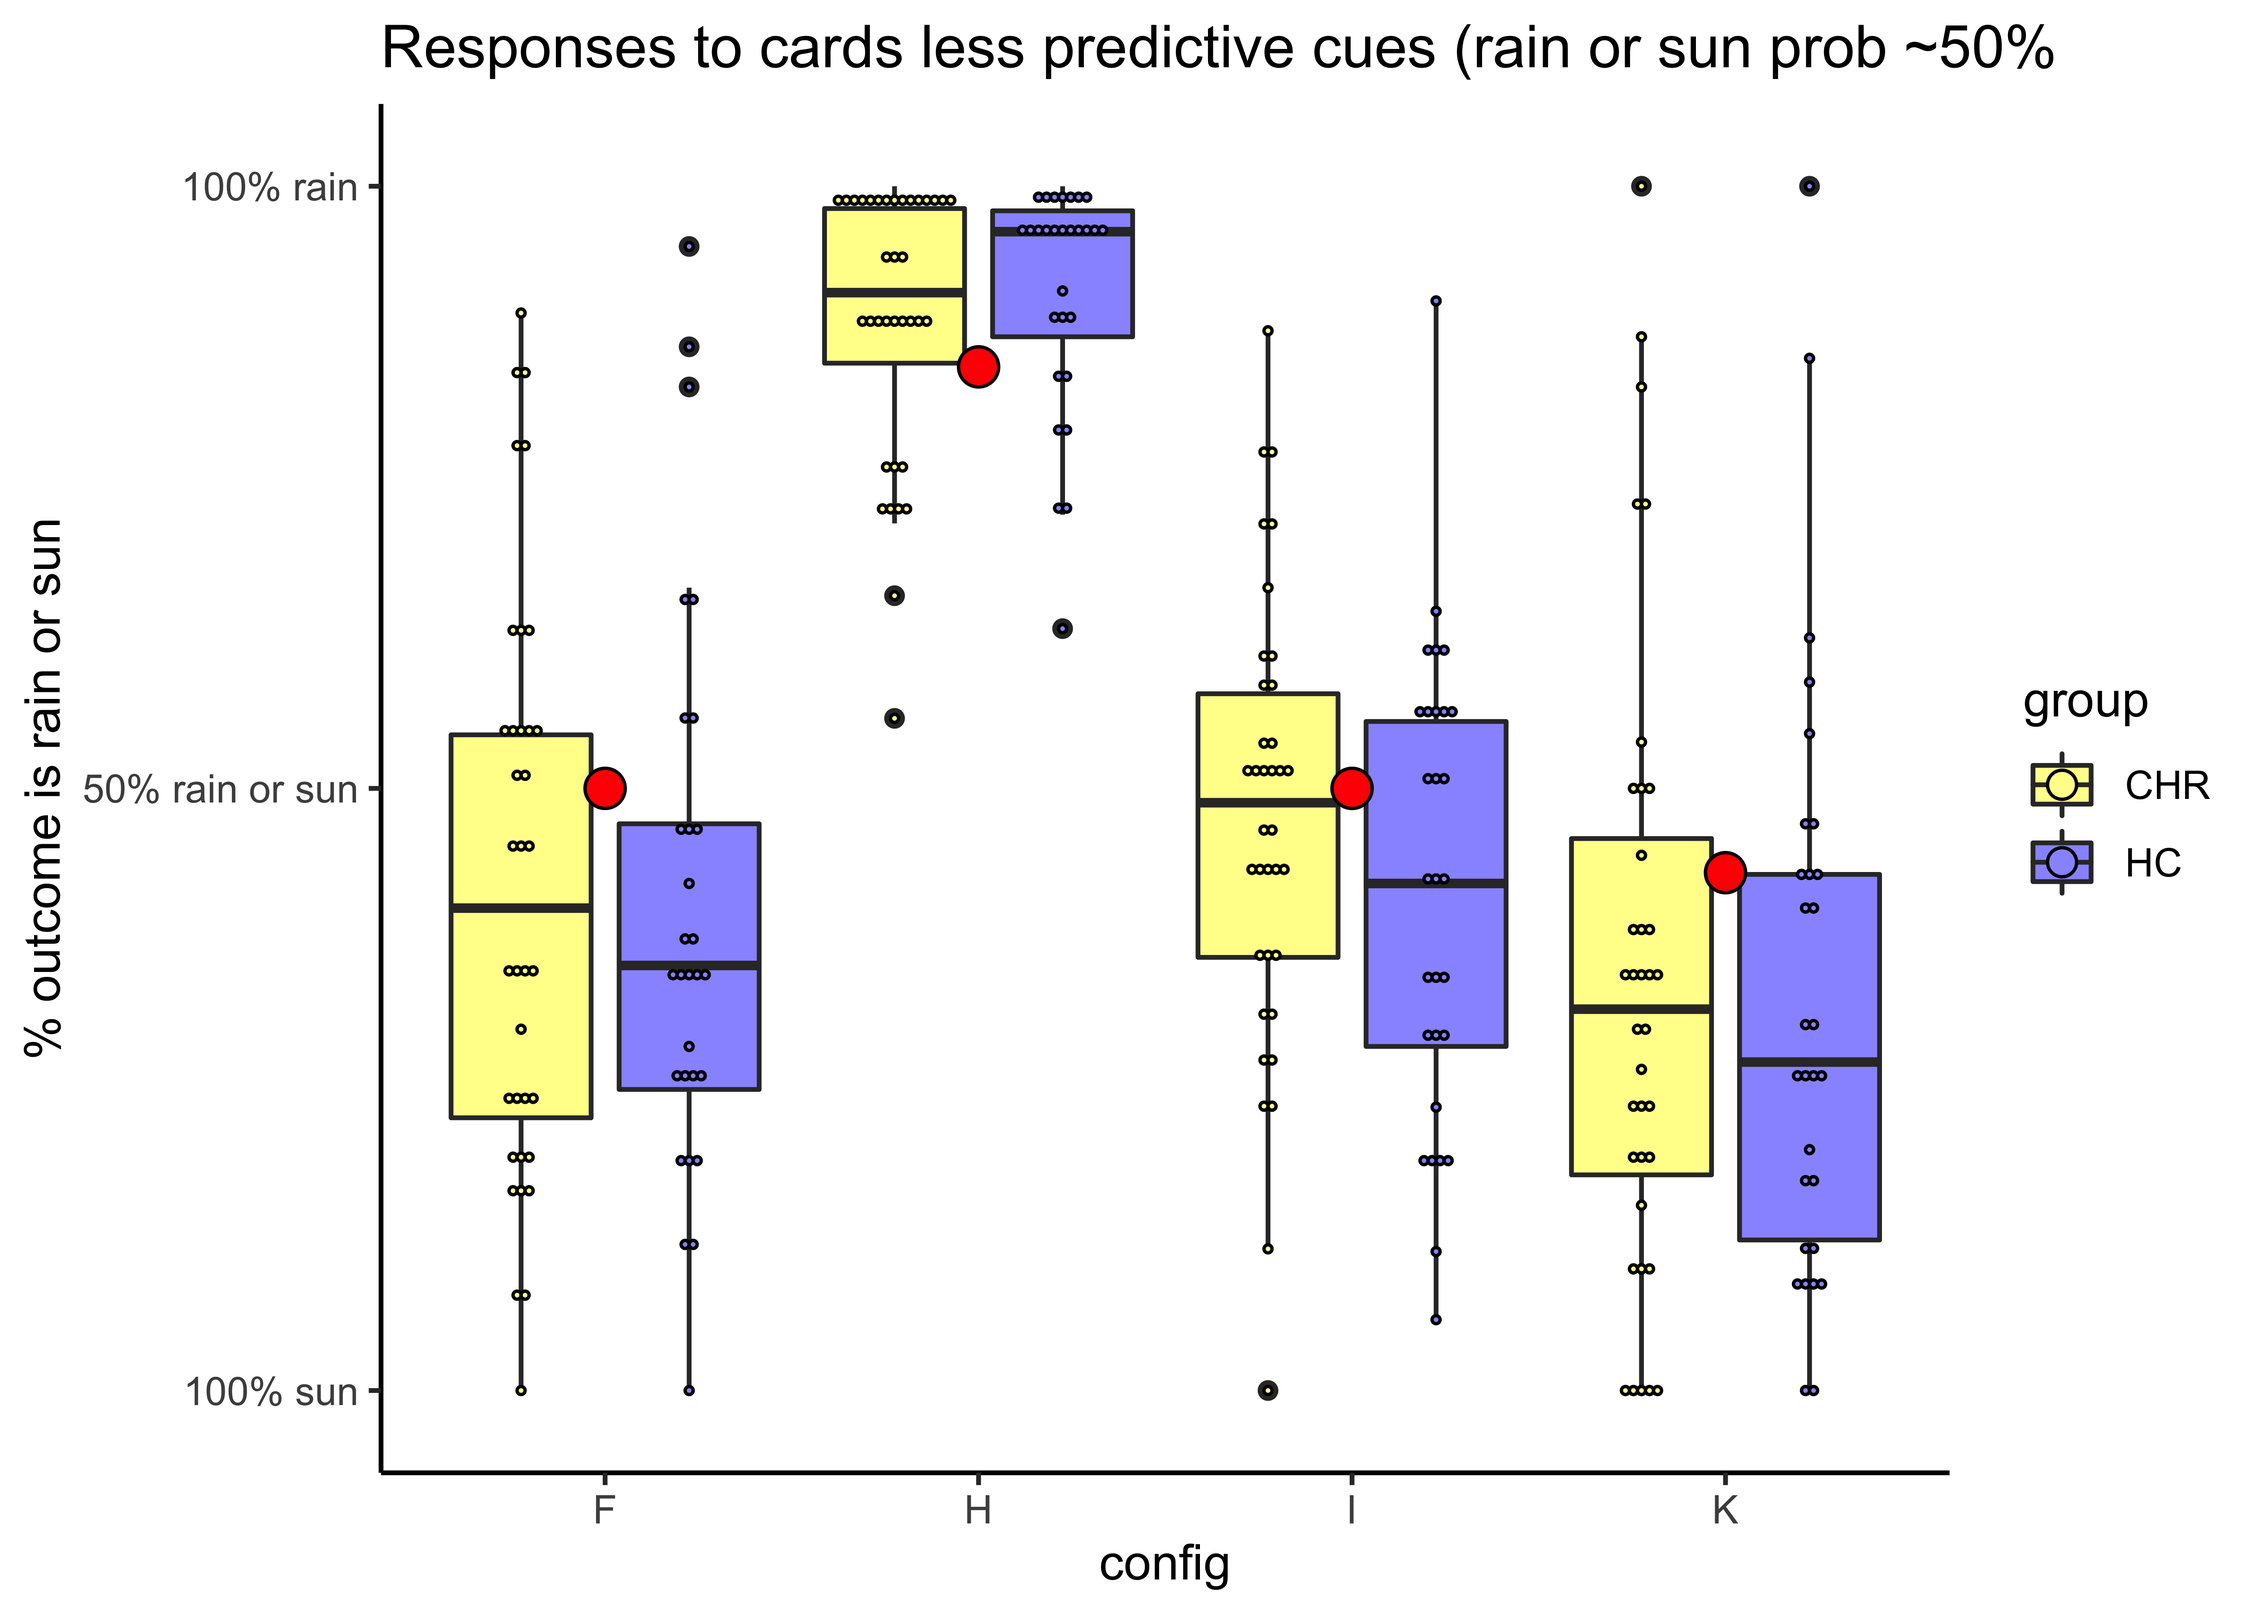
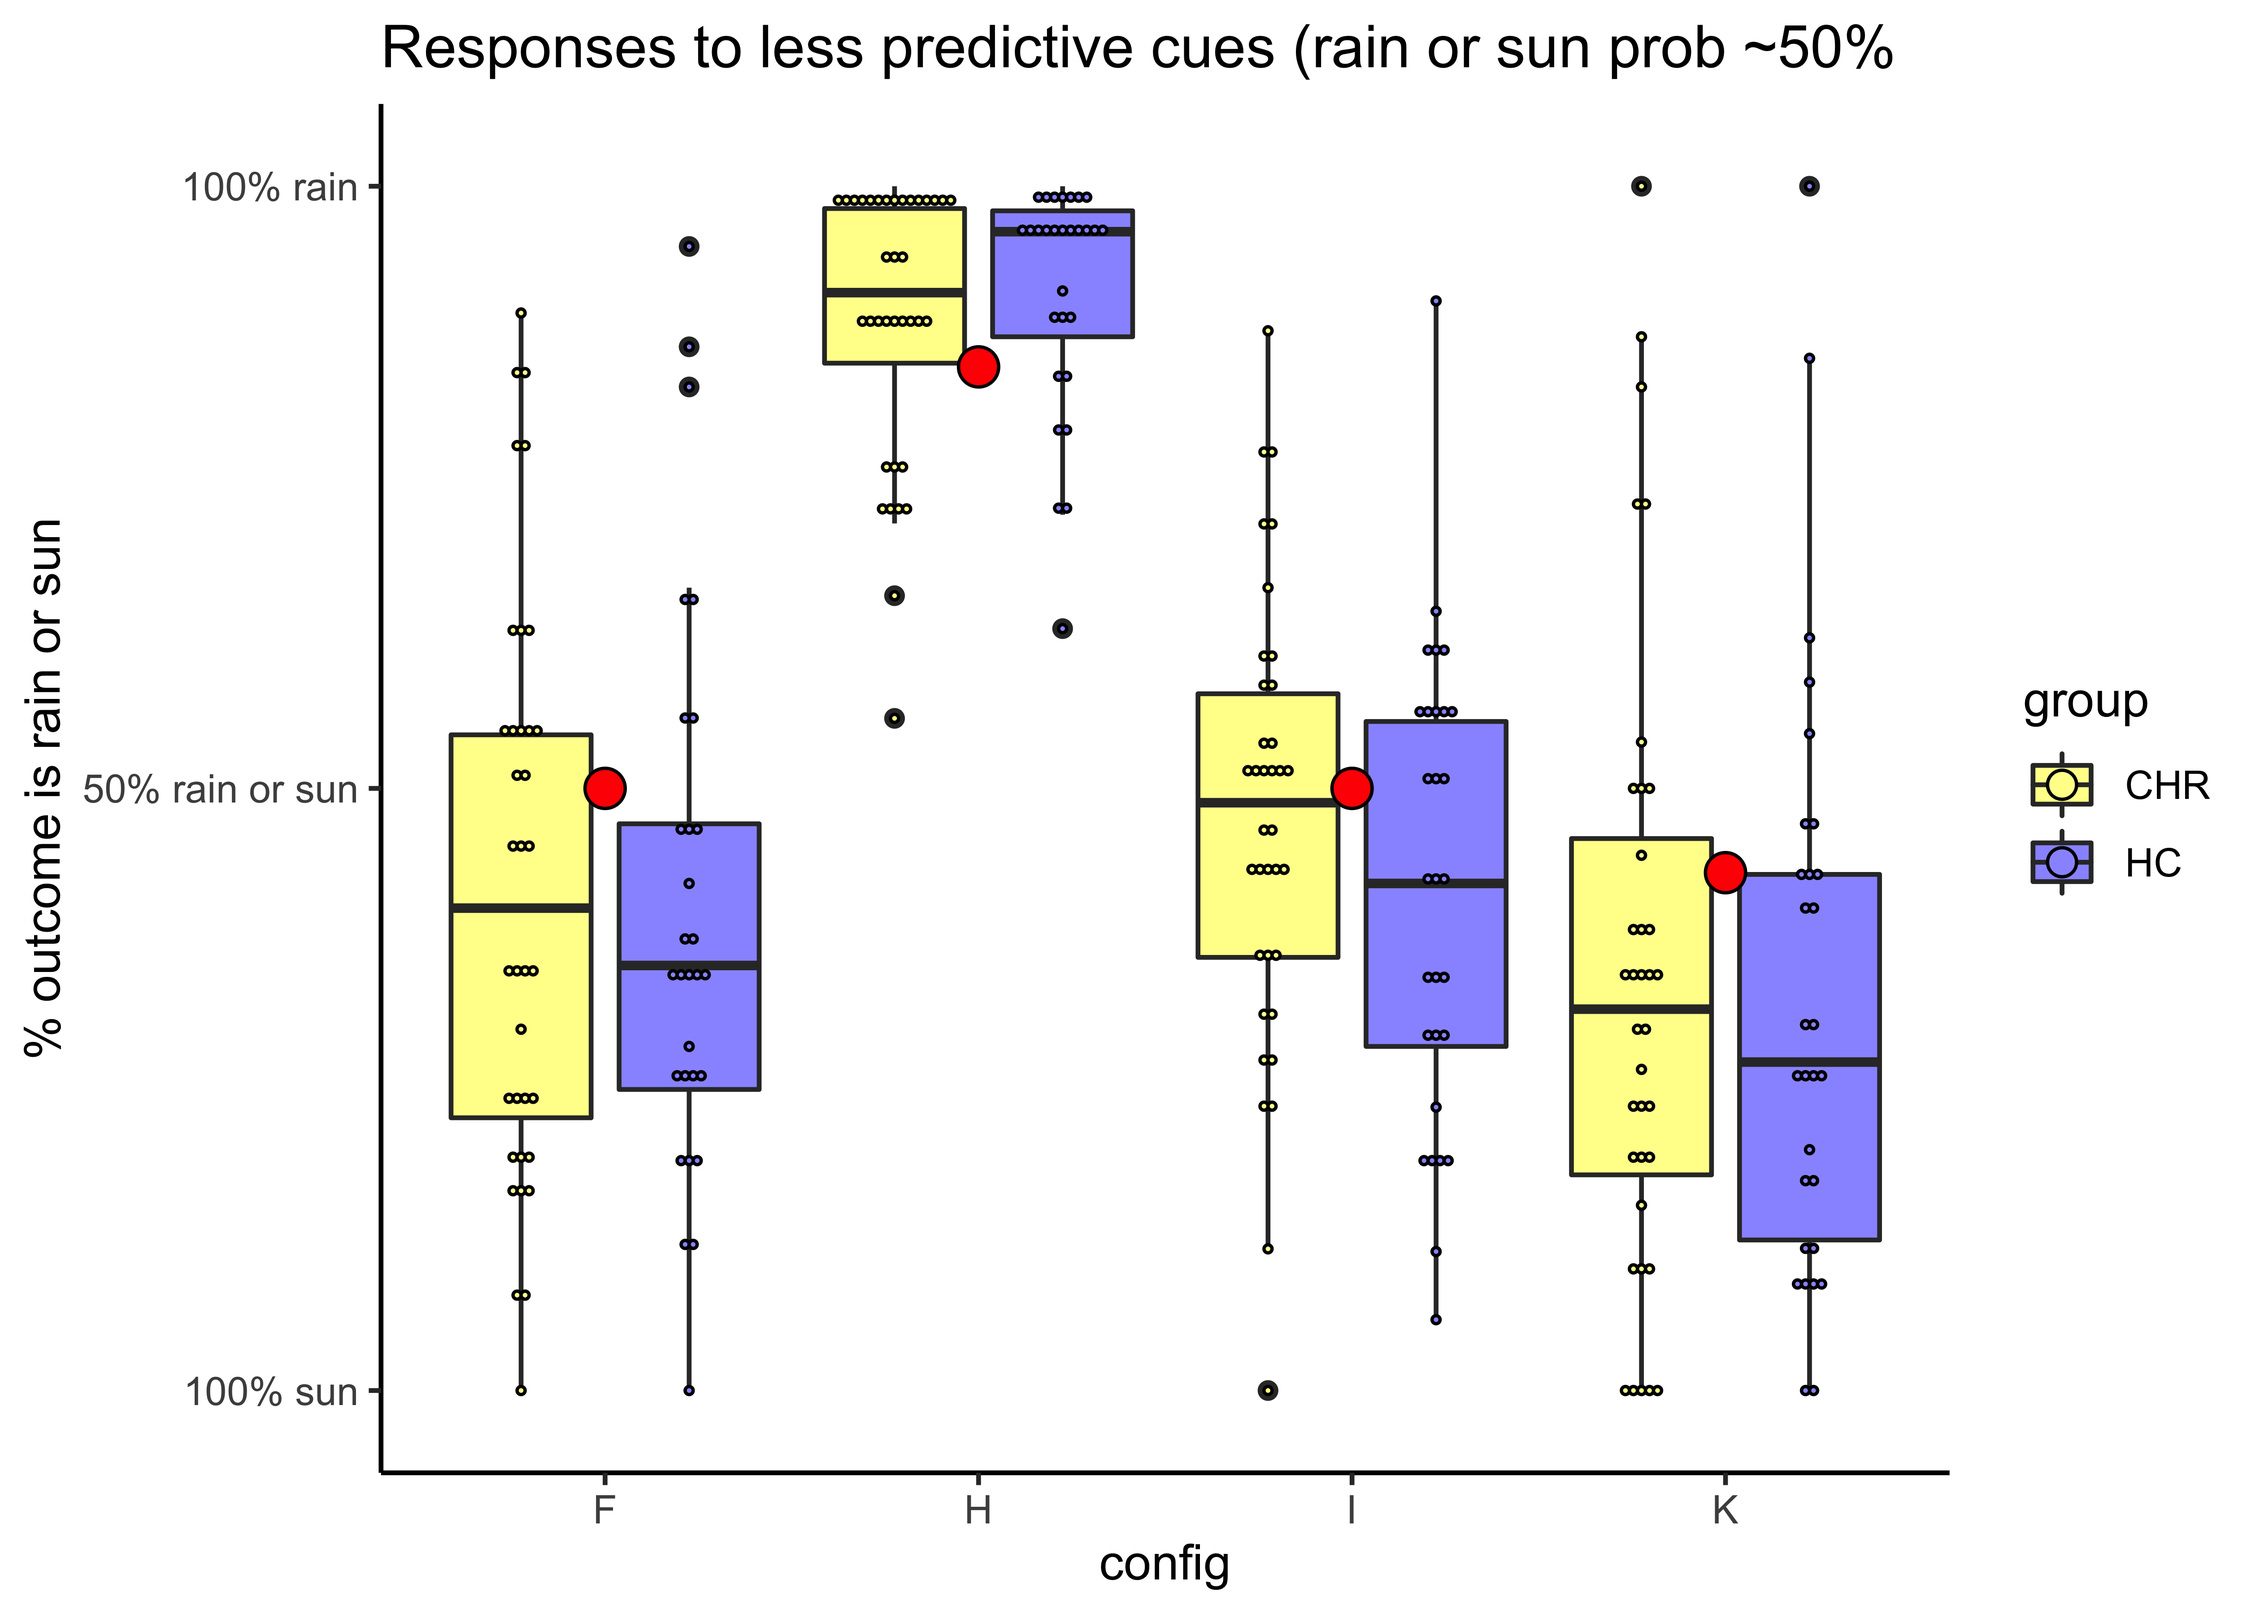
WPT with datavis

Changed region(s): [[0.4361, 0.0, 0.9034, 0.0622], [0.3427, 0.0, 0.405, 0.0622]]

diff --git a/WPT.md b/WPT.md
@@ -546,7 +546,7 @@ two_cards_plot <- ggplot(two_cards, aes(x=config, y=mean_resp, fill=group)) +
   geom_dotplot(binaxis='y', stackdir='center', dotsize=.2, position=position_dodge(.9)) +
   geom_dotplot(data=two_cards_sub, aes(x=config, y=rainprob), fill="red", binaxis='y', stackdir='center', position=position_dodge(.9)) +
   theme_classic() +
-  labs(title="Responses to two card cues")
+  labs(title="Responses to trials with two cards")
 
 two_cards_plot + scale_fill_manual(values=c("#FFFF99", "#9999FF")) + 
   scale_y_continuous(name="% outcome is rain or sun", 
@@ -562,7 +562,7 @@ three_cards_plot <- ggplot(three_cards, aes(x=config, y=mean_resp, fill=group)) 
   geom_dotplot(binaxis='y', stackdir='center', dotsize=.2, position=position_dodge(.9)) +
   geom_dotplot(data=three_cards_sub, aes(x=config, y=rainprob), fill="red", binaxis='y', stackdir='center', position=position_dodge(.9)) +
   theme_classic() +
-  labs(title="Responses to three card cues")
+  labs(title="Responses to trials with three cards")
 
 three_cards_plot + scale_fill_manual(values=c("#FFFF99", "#9999FF")) + 
   scale_y_continuous(name="% outcome is rain or sun", 
@@ -605,7 +605,7 @@ unpredictive_plot <- ggplot(unpredictive, aes(x=config, y=mean_resp, fill=group)
   geom_dotplot(binaxis='y', stackdir='center', dotsize=.2, position=position_dodge(.9)) +
   geom_dotplot(data=unpredictive_sub, aes(x=config, y=rainprob), fill="red", binaxis='y', stackdir='center', position=position_dodge(.9)) +
   theme_classic() +
-  labs(title="Responses to cards less predictive cues (rain or sun prob ~50%")
+  labs(title="Responses to less predictive cues (rain or sun prob ~50%")
 
 unpredictive_plot + scale_fill_manual(values=c("#FFFF99", "#9999FF")) + 
   scale_y_continuous(name="% outcome is rain or sun", 
